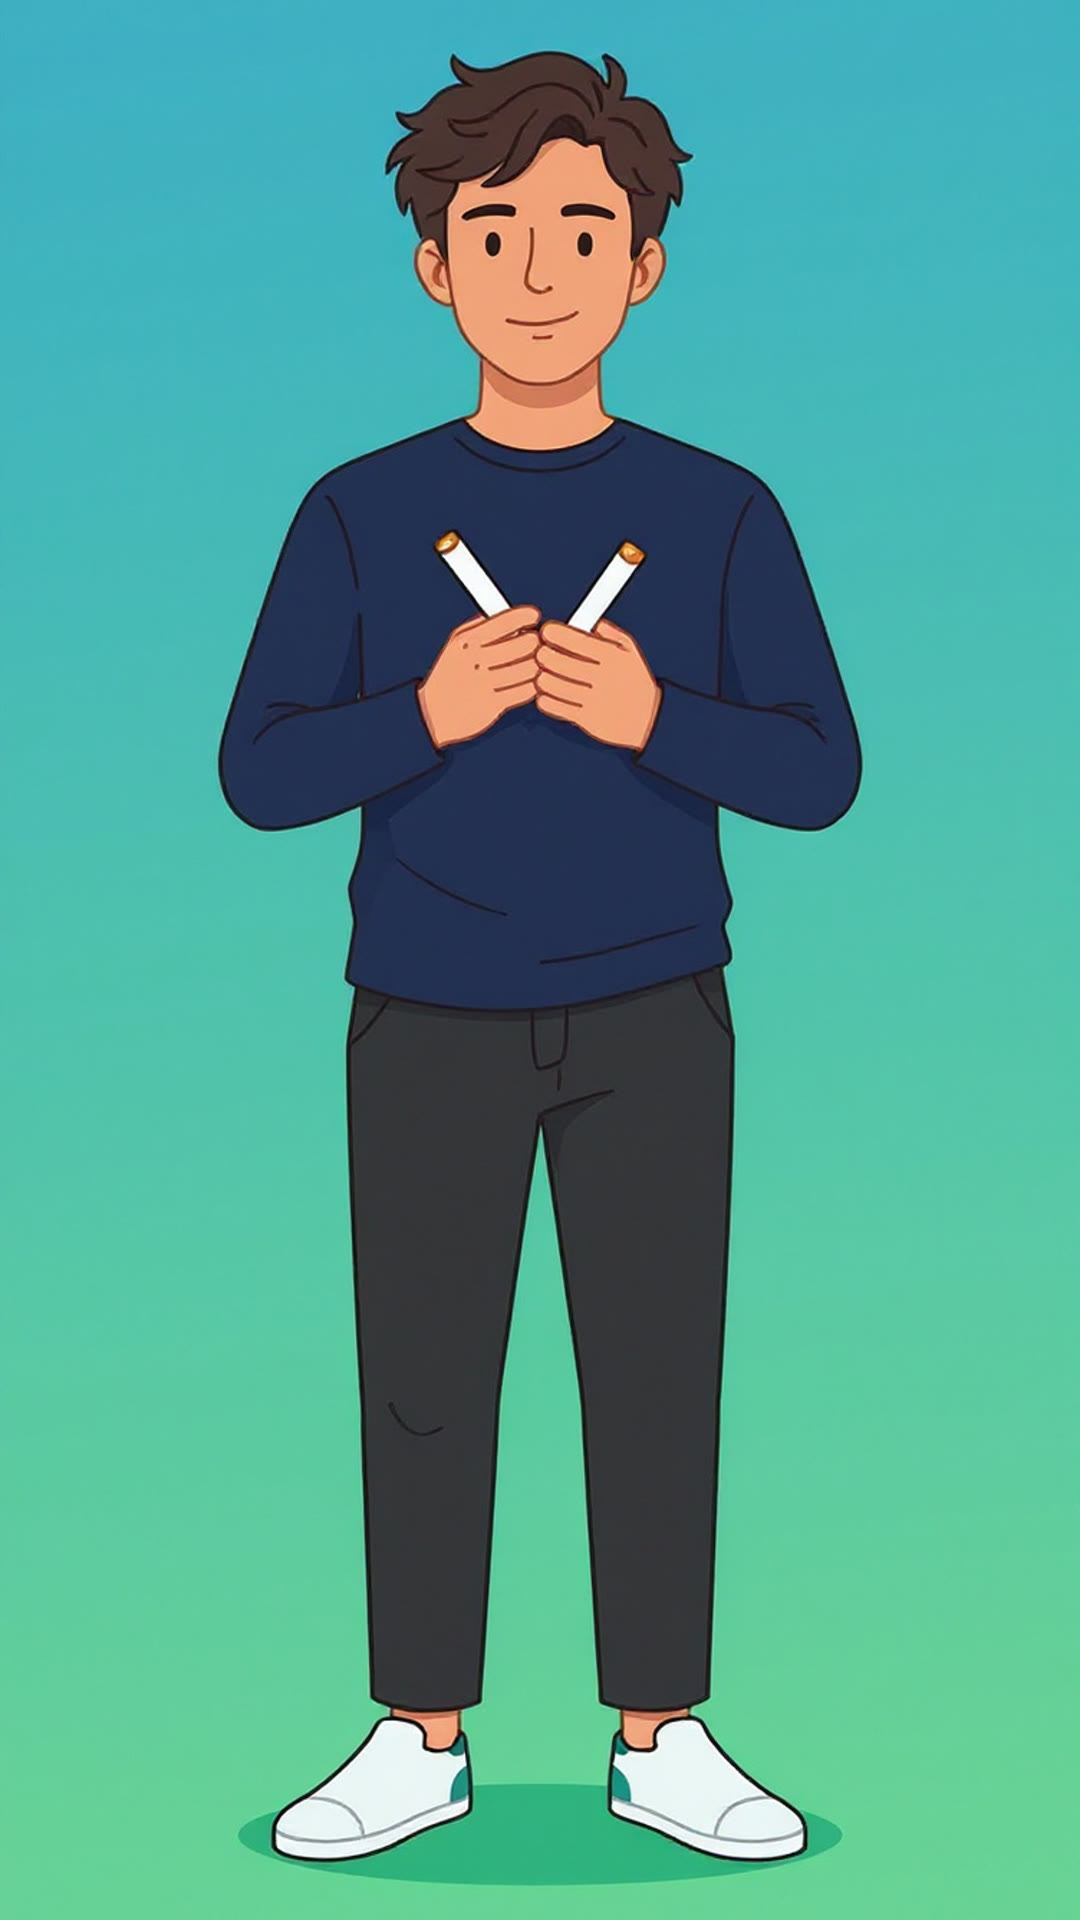
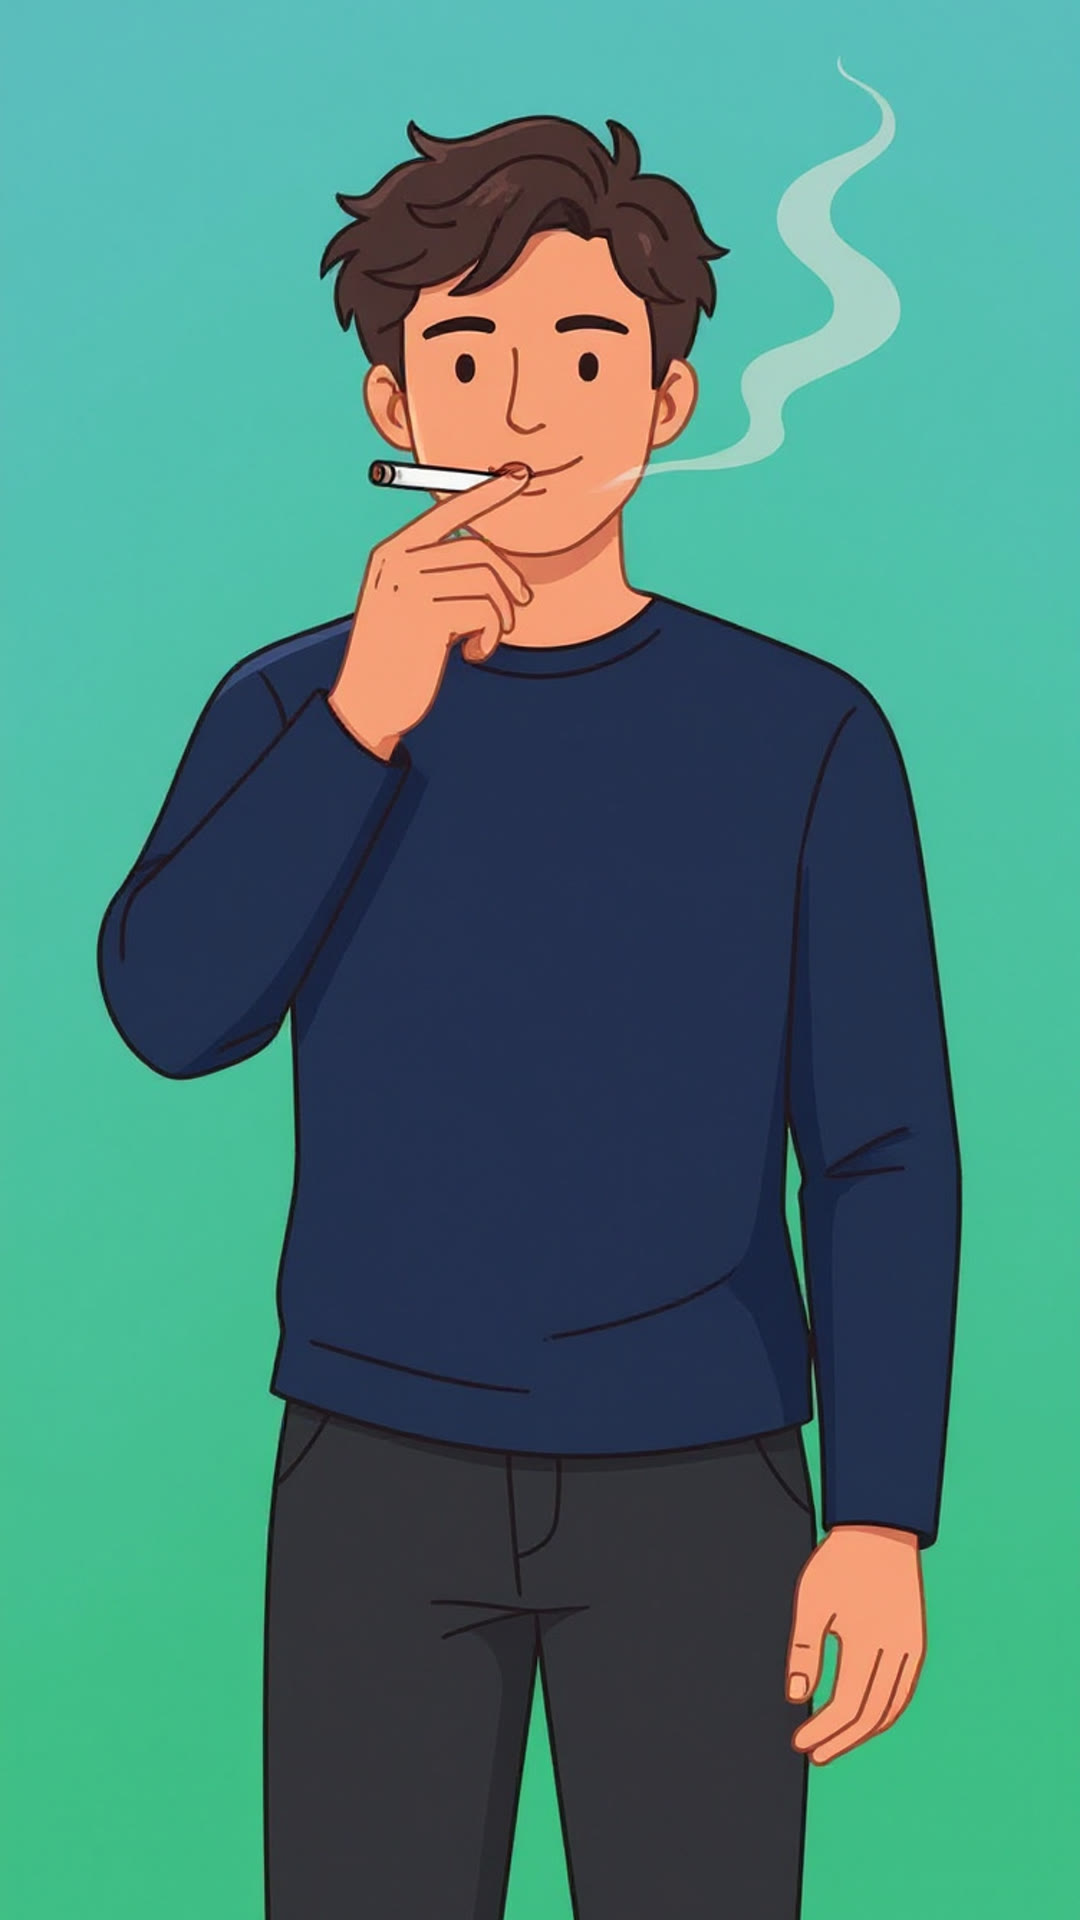
Social: Swaply-Nikotin-Reel zeigt den Raucher, am Ende die zerbrochene Zigarette
Josef am 26.09.2026: „Nein du darfst mit fal.ai ein bild von einem raucher
erstellen". Das Reichweitenrisiko (TikTok nimmt Tabakkonsum aus dem
Für-dich-Feed) nimmt er bewusst in Kauf.

- einblendungen/swaply-nicotine.jpg: der Begleiter raucht (flux-pro/kontext,
  Vorlage roh-begleiter.jpg, Seed 9201; 9202 verworfen — keine Glut außen,
  das Mundende sah brennend aus). 0,08 $ für zwei Varianten.
- Das bisherige Bild heißt jetzt swaply-nicotine-ende.jpg und steht vor der
  Schlussszene: Impuls → Raucher → Schritte → zerbrochene Zigarette → Schluss.
- make-reel.mjs: optionale Szene `bild-ende` aus swaply-<kategorie>-ende.jpg,
  gleiche Technik (Zoom, AI-Plättchen, Fußzeile aus).

Claude-Session: https://claude.ai/code/session_016h7GMAVBXWketzqvazrckQ

diff --git a/tools/social/reels-fremd/einblendungen/HERKUNFT.md b/tools/social/reels-fremd/einblendungen/HERKUNFT.md
@@ -1,6 +1,8 @@
 # Herkunft: Einblendungen in den Typografie-Reels (make-reel.mjs)
 
-## `swaply-nicotine.jpg`: der Begleiter zerbricht eine Zigarette
+## `swaply-nicotine-ende.jpg`: der Begleiter zerbricht eine Zigarette (vor dem Schluss)
+
+*Bis 26.09. nachmittags hieß die Datei `swaply-nicotine.jpg` und war die einzige Einblendung.*
 
 **Auftrag Josef, 26.09.2026:** „swaply bild von rauchendem mann einblenden“.
 Auf Nachfrage gewählt: **„Mann mit Zigarette, die er weglegt/zerbricht“**. Kein Rauch und
@@ -20,3 +22,20 @@ sie drosselt.
 
 ⚠ **Nur für die Kategorie `nicotine`:** `make-reel.mjs` sucht `swaply-<kategorie>.jpg`. Eine
 Zigarette über einem Alkohol- oder Zucker-Reel wäre falsch.
+
+## `swaply-nicotine.jpg`: der Begleiter raucht (direkt nach „Wenn der Impuls kommt“)
+
+**Josef, 26.09.2026:** „Nein du darfst mit fal.ai ein bild von einem raucher erstellen“.
+Das Reichweiten-Risiko hat er gehört und nimmt es bewusst in Kauf: TikTok nimmt Videos mit
+Tabakkonsum aus dem Für-dich-Feed, Instagram drosselt sie. Deshalb läuft das Bild nur in
+der Nikotin-Kategorie.
+
+- **Modell:** `fal-ai/flux-pro/kontext`, Vorlage `roh-begleiter.jpg`, 9:16. Zwei Varianten,
+  zusammen 0,08 $.
+- **Genommen:** Seed 9201.
+  **Verworfen:** Seed 9202, außen fehlte die Glut, das Mundende sah aus, als brenne es im
+  Mund.
+- **Prompt:** `swaply-raucher-erzeugen.mjs`.
+
+**Dramaturgie im Reel:** Impuls, dann Raucher, dann die Schritte aus der App, dann die
+zerbrochene Zigarette, dann der Schluss.
